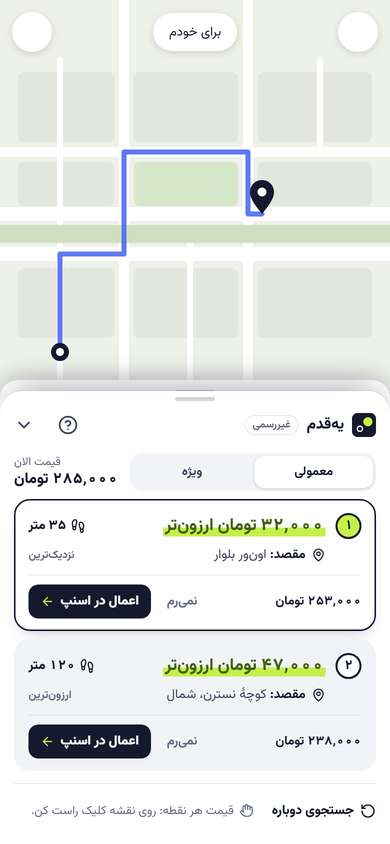
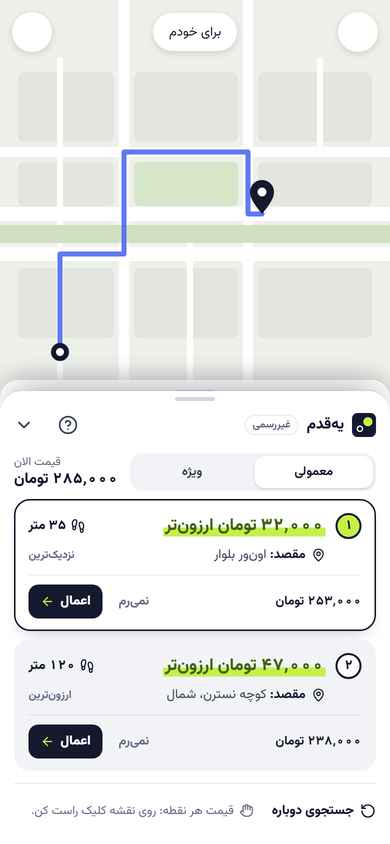
Document Tapsi support and refresh the screenshots
README gains a tech stack section, PRIVACY lists the Tapsi hosts and what is read from storage, and the screens and banner show the current panel.

diff --git a/README.md b/README.md
@@ -8,26 +8,26 @@
 
 **یه قدم اونورتر، ارزونتر.**
 
-قیمت اسنپ فقط به مسیر بستگی ندارد؛ نقطهی دقیق سوار و پیاده شدن هم مهم است. اونور خیابان، سر کوچهی بعدی یا چند ده متر جلوتر، گاهی همان سفر چند ده هزار تومان ارزانتر است.
-یهقدم داخل خود وباپ اسنپ کار میکند: نقاط نزدیکی را که واقعاً میشود پیاده تا آنها رفت قیمت میگیرد و چند پیشنهاد کوتاه نشانت میدهد.
+قیمت اسنپ و تپسی فقط به مسیر بستگی ندارد؛ نقطهی دقیق سوار و پیاده شدن هم مهم است. اونور خیابان، سر کوچهی بعدی یا چند ده متر جلوتر، گاهی همان سفر چند ده هزار تومان ارزانتر است.
+یهقدم داخل خود وباپ اسنپ یا تپسی کار میکند: نقاط نزدیکی را که واقعاً میشود پیاده تا آنها رفت قیمت میگیرد و چند پیشنهاد کوتاه نشانت میدهد.
 
-> یهقدم برنامهای غیررسمی است و هیچ ارتباطی با اسنپ ندارد. فقط قیمت میپرسد و هرگز سفری ثبت نمیکند.
+> یهقدم برنامهای غیررسمی است و هیچ ارتباطی با اسنپ و تپسی ندارد. فقط قیمت میپرسد و هرگز سفری ثبت نمیکند.
 
 <p align="center">
   <img src="docs/images/screen-guide.png" width="170" alt="راهنمای اول کار">
   <img src="docs/images/screen-setup.png" width="170" alt="انتخاب فاصلهی پیادهروی">
   <img src="docs/images/screen-results.png" width="170" alt="پیشنهادها">
   <img src="docs/images/screen-pill.png" width="170" alt="نمایش روی نقشه">
-  <img src="docs/images/screen-apply.png" width="170" alt="اعمال در اسنپ">
+  <img src="docs/images/screen-apply.png" width="170" alt="اعمال">
 </p>
 <p align="center"><sub>تصاویر نمونهاند؛ قیمت و خیابانها برای نمایش انتخاب شدهاند.</sub></p>
 
 ## چطور کار میکند
 
-1. در اسنپ مبدا و مقصد را انتخاب کن تا قیمت بیاید، بعد روی **«ارزونترش کن»** بزن.
-2. بگو امروز تا کجا حاضری پیاده بروی: ۱۰۰، ۲۰۰ یا ۳۰۰ متر. ماشین یا موتور.
+1. در اسنپ یا تپسی مبدا و مقصد را انتخاب کن تا قیمت بیاید، بعد روی **«ارزونترش کن»** بزن.
+2. بگو امروز تا کجا حاضری پیاده بروی، برای مبدا و مقصد جدا: ۱۰۰، ۲۰۰ یا ۳۰۰ متر. ماشین یا موتور.
 3. چند ثانیه بعد، حداکثر سه پیشنهاد میبینی: چقدر ارزانتر، چند متر پیاده، کجا.
-4. روی **«اعمال در اسنپ»** بزن؛ پین به همان نقطه میرود و فقط تأییدش میکنی. بعد پیاده تا نقطهی جدید برو.
+4. روی **«اعمال»** بزن. در اسنپ پین به همان نقطه میرود و فقط تأییدش میکنی؛ در تپسی خود صفحه با نقطهی جدید باز میشود و نیازی به تأیید نیست. بعد پیاده تا نقطهی جدید برو.
 
 بار اول یک راهنمای ششقدمی همینها را با تصویر نشان میدهد و هر وقت خواستی با دکمهی **؟** بالای پنل دوباره باز میشود.
 
@@ -38,29 +38,29 @@
 - **فقط جاهایی که میشود رفت.** نقاط روی خیابانهایی انتخاب میشوند که ماشین میتواند آنجا بایستد؛ نه وسط بزرگراه، نه داخل تونل، نه روی رمپ.
 - **فاصلهی پیادهروی واقعی** روی شبکهی خیابانها، با عبور از عرض بلوار؛ نه خط هوایی.
 - **اونور خیابان** روی بلوارهای دوطرفه همیشه بررسی میشود؛ معمولاً مسیر راننده را عوض میکند.
-- **ماشین یا موتور،** هر جا اسنپ آن را برای مسیرت ارائه کند.
-- **«تا چند حاضری بدی؟»:** کمترین پیادهروی برای رسیدن به زیر قیمتی که میخواهی.
+- **اسنپ و تپسی،** ماشین یا موتور، هر جا سرویس آن را برای مسیرت ارائه کند.
+- **فاصلهی جدا برای مبدا و مقصد.** مثلاً از مبدا ۱۰۰ متر و از مقصد ۳۰۰ متر. با «همینجا» یکی از دو سر سر جایش میماند و همهی استعلامها برای سر دیگر خرج میشود.
 - **قیمت یک نقطهی دلخواه:** انگشتت را روی نقشه نگه دار (در کامپیوتر: کلیک راست).
-- **قفل قیمت:** اسنپ هر قیمت را چند دقیقه ثابت نگه میدارد. یهقدم این را تشخیص میدهد و میگوید جابهجا شدن به نفعت هست یا نه.
+- **قفل قیمت (اسنپ):** اسنپ هر قیمت را چند دقیقه ثابت نگه میدارد. یهقدم این را تشخیص میدهد و میگوید جابهجا شدن به نفعت هست یا نه.
 
 ## نصب
 
-**اندروید:** فایل `yeghadam-x.y.z.apk` را از بخش [Releases](../../releases) دانلود و نصب کن، بعد با حساب اسنپ خودت وارد شو.
+**اندروید:** فایل `yeghadam-x.y.z.apk` را از بخش [Releases](../../releases) دانلود و نصب کن، بعد سرویس (اسنپ یا تپسی) را انتخاب کن و با حساب خودت وارد شو. بعداً از صفحهی اول با دکمهی برگشت میتوانی سرویس را عوض کنی.
 
 **کروم، اج و مرورگرهای کرومیوم:**
 1. فایل `yeghadam-extension-x.y.z.zip` را از [Releases](../../releases) دانلود و از حالت فشرده خارج کن.
 2. به `chrome://extensions` برو و **Developer mode** را روشن کن.
 3. **Load unpacked** را بزن و پوشهی باز شده را انتخاب کن.
-4. در [app.snapp.taxi](https://app.snapp.taxi) مبدا و مقصد را انتخاب کن و روی «ارزونترش کن» بزن.
+4. در [app.snapp.taxi](https://app.snapp.taxi) یا [app.tapsi.cab](https://app.tapsi.cab) مبدا و مقصد را انتخاب کن و روی «ارزونترش کن» بزن.
 
 **فایرفاکس ۱۲۸ به بعد:** در `about:debugging#/runtime/this-firefox` روی **Load Temporary Add-on** بزن و `manifest.json` داخل همان پوشه را انتخاب کن.
 
 ## حریم خصوصی و امنیت حساب
 
-یهقدم سرور ندارد و هیچ دادهای جمع نمیکند. با همان حسابی کار میکند که در اسنپ وارد شدهای و فقط با دو آدرس حرف میزند:
+یهقدم سرور ندارد و هیچ دادهای جمع نمیکند. با همان حسابی کار میکند که در اسنپ یا تپسی وارد شدهای و فقط با این آدرسها حرف میزند:
 
-- `app.snapp.taxi/api/v3/price` برای استعلام قیمت، با توکن خودت که از دستگاهت بیرون نمیرود؛
-- `tile.snappmaps.ir` برای نقشهی عمومی خیابانها.
+- `app.snapp.taxi/api/v3/price` یا `api.tapsi.cab/api/v3.1/ride/preview` برای استعلام قیمت، با نشست خودت که از دستگاهت بیرون نمیرود؛
+- `tile.snappmaps.ir` و `tap30.services` برای نقشهی عمومی خیابانها.
 
 هر جستجو حداکثر ۲۵ استعلام است و تعداد جستجوها محدود است (۵ بار در ۱۰ دقیقه و ۱۵ بار در ساعت) تا حسابت به خاطر استعلام زیاد حساس نشود. جزئیات در [PRIVACY.md](PRIVACY.md).
 
@@ -70,7 +70,7 @@
 
 ## Development
 
-Yeghadam is a script injected into the Snapp passenger web app, shipped two ways: a Manifest V3 browser extension and a small Android app that hosts the web app in a WebView.
+Yeghadam is a script injected into the Snapp and Tapsi passenger web apps, shipped two ways: a Manifest V3 browser extension and a small Android app that hosts the web app in a WebView.
 
 ```
 src/core.js        search engine, no DOM: vector tiles, walking graph, candidates, ranking (runs in Node for tests)
@@ -82,6 +82,15 @@ test/              unit tests for the core
 brand/             logo source image (drawn by scripts/make-icons.py)
 docs/images/       README images
 ```
+
+### Tech stack
+
+- **Core and page layer:** plain JavaScript with no runtime dependencies and no bundler. `scripts/build.js` joins `src/core.js` and `src/ui.js` into one script. Vector tiles (protobuf) are decoded by a small decoder in the core.
+- **Browser extension:** Manifest V3 content script running in the page world (`world: "MAIN"`), so it can see the page's own price requests and map. Chrome, Edge and other Chromium browsers. The manifest also targets Firefox 128 or later (desktop and Android), but that has not been run yet.
+- **Android app:** Java without AndroidX, built with Gradle. A `WebView` hosts Snapp or Tapsi and injects the same script. minSdk 24, targetSdk 34.
+- **Tests:** Node's built-in test runner (`node:test`), no test framework.
+- **Releases:** GitHub Actions builds, signs and publishes the APK and the extension zip.
+- **Tooling:** Python 3 with Pillow draws the icons.
 
 ### Requirements
 
@@ -102,13 +111,13 @@ Load `dist/extension/` with **Load unpacked** to try local changes.
 
 ### How the search works
 
-1. Road data comes from the public vector tiles the Snapp map already uses. Roads become a walking graph; the one-way carriageway pairs of divided roads get crossing links with a small penalty, and loose road ends left by tile simplification are joined to the road they meet.
+1. Road data comes from the public vector tiles the service's own map already uses (Snapp or Tapsi). Roads become a walking graph; the one-way carriageway pairs of divided roads get crossing links with a small penalty, and loose road ends left by tile simplification are joined to the road they meet.
 2. Candidates are points a car can stop at (no motorways, ramps, tunnels or bridges), spread over rings of walking distance from the origin and from the destination.
 3. A search spends at most 25 quotes: a spread phase on both ends, then the remaining budget steps around the best point found so far.
-4. Snapp locks a quote for a few minutes per route. When the base price is older than the search, one extra quote on the same street shows the current price.
+4. Snapp locks a quote for a few minutes per route. When the base price is older than the search, one extra quote on the same street shows the current price. Tapsi quotes expire after a minute and its page refreshes them on its own, so the panel shows the live price and warns when it moves.
 5. Results are the Pareto front of walking distance against price, limited to three options.
 
-The route is taken from Snapp's own price requests, and only once its first and last points sit on the origin and destination markers, so previews made while dragging a pin are ignored.
+On Snapp the route is taken from its own price requests, and only once their first and last points sit on the origin and destination markers, so previews made while dragging a pin are ignored. On Tapsi the route is read from the page URL, and applying a suggestion opens the same URL with the new point.
 
 ### Releasing
 
@@ -122,4 +131,4 @@ The release keystore is never committed. It is stored as repository secrets: `KE
 
 ## License
 
-[MIT](LICENSE). Not affiliated with, endorsed by or connected to Snapp. "Snapp" is a trademark of its owner.
+[MIT](LICENSE). Not affiliated with, endorsed by or connected to Snapp or Tapsi. "Snapp" and "Tapsi" are trademarks of their owners.

diff --git a/PRIVACY.md b/PRIVACY.md
@@ -4,20 +4,22 @@ Yeghadam has no server and collects no data.
 
 ## What it reads
 
-- The Snapp access token that the Snapp web app keeps in the page's local storage, so price quotes are made with your own account.
-- The route you confirm in Snapp (origin, destination and any stops), taken from Snapp's own price requests in the same page.
+- Snapp: the access token that the Snapp web app keeps in the page's local storage, so price quotes are made with your own account.
+- Tapsi: one flag from the page's local storage (whether you are signed in). Quotes use the session cookie the Tapsi web app already holds, which the browser attaches itself.
+- The route you confirm (origin, destination and any stops), taken from the page's own price requests or address in the same page.
 
 ## Where it sends requests
 
 - `https://app.snapp.taxi/api/v3/price`: price quotes for points near your origin and destination. These requests carry your token exactly like the Snapp web app does.
-- `https://tile.snappmaps.ir`: public map tiles, without any credentials.
+- `https://api.tapsi.cab/api/v3.1/ride/preview`: the same quotes on Tapsi. These requests carry your Tapsi session exactly like the Tapsi web app does.
+- `https://tile.snappmaps.ir` and the map tile host named in Tapsi's own map style (`tap30.services`): public map tiles, without any credentials.
 
-Nothing is sent anywhere else. The token never leaves your device.
+Nothing is sent anywhere else. Your token and session never leave your device.
 
 ## What it stores on your device
 
-In the page's local storage: your last walking-distance choice, your preferred service per category, and the times of recent searches (used only to keep the number of quotes low). Nothing is synced.
+In the page's local storage: your last walking-distance choice, your preferred service per category, and the times of recent searches (used only to keep the number of quotes low). The Android app also keeps which service you picked and the version of the notice you accepted in its own private preferences. Nothing is synced.
 
 ## What it never does
 
-It never requests, confirms or cancels a ride. Applying a suggestion only moves the pin on the map; you confirm it yourself in Snapp.
+It never requests, confirms or cancels a ride. Applying a suggestion only moves the pin on Snapp's map (you confirm it yourself) or opens Tapsi's price page with the new point; you request the ride yourself.
